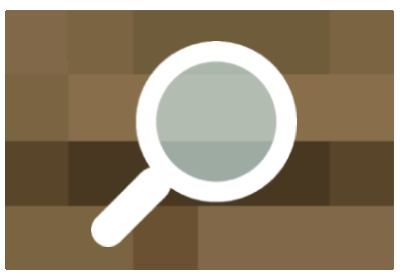
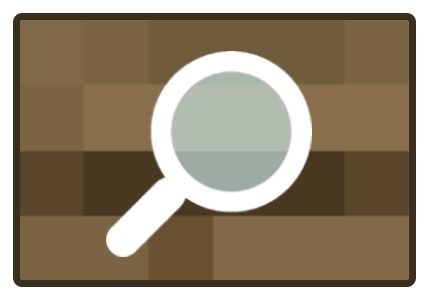
-Adding changes to magnification button images -Setup changes to allow for magnification feature to be added soon -Altered turn number alignment

Changed region(s): [[0.0, 0.0286, 0.99, 0.9714], [0.45, 0.6, 0.63, 0.6571]]

diff --git a/app/src/main/java/uk/ac/qub/eeecs/game/GameScreens/MainGameScreen.java b/app/src/main/java/uk/ac/qub/eeecs/game/GameScreens/MainGameScreen.java
@@ -44,7 +44,7 @@ public class MainGameScreen extends GameScreen {
 
     //Define pushButtons for the game
     private PushButton endTurnButton;
-    private PushButton magnificationButton;
+    private ToggleButton magnificationButton;
 
     //RulesScreen Buttons
     private PushButton RulesScreenButton;
@@ -68,7 +68,9 @@ public class MainGameScreen extends GameScreen {
     private Paint dialogueTextPaint;
     private Vector2 textPosition;
 
+    //Turn Number Counter
     private int turnNumber = 1;
+
 
     //Pause menu
     private PushButton unpauseButton, exitButton;
@@ -165,8 +167,9 @@ public class MainGameScreen extends GameScreen {
                 "EndTurnDefault", "EndTurnActive", this);
 
         //Setup magnification button for the board
-        magnificationButton = new PushButton(screenWidth * 0.06f, screenHeight/10,screenWidth/10,screenHeight /8,
-                "magnifyIcon", this);
+        magnificationButton = new ToggleButton(screenWidth * 0.06f, screenHeight * 0.08f,screenWidth/10,screenHeight /8,
+                "magnifyIcon", "magnifyIcon","magnifyIcon-active", "magnifyIcon-active" , this);
+
 
 
         //Setup displayCards  button for the board
@@ -244,6 +247,10 @@ public class MainGameScreen extends GameScreen {
     @Override
     public void update(ElapsedTime elapsedTime) {
 
+        //Toggle Button Update
+        magnificationButton.update(elapsedTime, boardLayerViewport, mDefaultScreenViewport);
+
+
         if (!gamePaused) {
 
             // Process any touch events occurring since the last update
@@ -300,6 +307,7 @@ public class MainGameScreen extends GameScreen {
 
     public void draw(ElapsedTime elapsedTime, IGraphics2D graphics2D) {
 
+
         int width = mGame.getScreenWidth();
         int height = mGame.getScreenHeight();
 
@@ -343,8 +351,8 @@ public class MainGameScreen extends GameScreen {
         Paint turnText = new Paint();
         turnText.setTypeface(mGame.getAssetManager().getFont("MinecrafterFont"));
         turnText.setTextSize(height / 32);
-        turnText.setTextAlign(Paint.Align.CENTER);
-        graphics2D.drawText("Turn Number: " + turnNumber, width * 0.1f, height * 0.05f, turnText);
+        turnText.setTextAlign(Paint.Align.LEFT);
+        graphics2D.drawText("Turn Number: " + turnNumber, width * 0.01f, height * 0.05f, turnText);
 
         Paint fpsPaint = new Paint();
         fpsPaint.setTypeface(mGame.getAssetManager().getFont("MinecrafterFont"));
@@ -423,6 +431,16 @@ public class MainGameScreen extends GameScreen {
     public void RulesButton() {
             if (RulesScreenButton.isPushTriggered()) {
                 mGame.getScreenManager().addScreen(Rules);
+            }
+    }
+
+    public void magnificationButton() {
+            if (magnificationButton.isToggledOn()) {
+                magnificationButton.setToggled(true);
+                mGame.setMagnificationToggled(true);
+            }
+            else {
+                mGame.setMagnificationToggled(false);
             }
     }
 

diff --git a/app/src/main/java/uk/ac/qub/eeecs/game/GameObjects/CardClasses/Card.java b/app/src/main/java/uk/ac/qub/eeecs/game/GameObjects/CardClasses/Card.java
@@ -285,7 +285,12 @@ public class Card extends Sprite {
 
             //Changes the cardFaceUp boolean if the card is single tapped - MMC
             if(t.type == TouchEvent.TOUCH_SINGLE_TAP  && mBound.contains(x_cor,y_cor)){
-                flipTimer = FLIP_TIME;
+                if (mGame.isMagnificationToggled()) {
+
+
+                } else {
+                    flipTimer = FLIP_TIME;
+                }
             }
 
             if(mBound.contains(x_cor,y_cor) && t.type == TouchEvent.TOUCH_DOWN){

diff --git a/app/src/main/java/uk/ac/qub/eeecs/gage/Game.java b/app/src/main/java/uk/ac/qub/eeecs/gage/Game.java
@@ -32,6 +32,12 @@ import android.view.ViewGroup;
  */
 public abstract class Game extends Fragment {
 
+    //Feature Properties
+    private boolean magnificationToggle = false;
+
+    public boolean isMagnificationToggled() { return magnificationToggle; }
+    public void setMagnificationToggled(boolean magnificationToggle) { this.magnificationToggle = magnificationToggle; }
+
     //Team Defined Properties
     /**
      * The Game has two Players who play the game.
